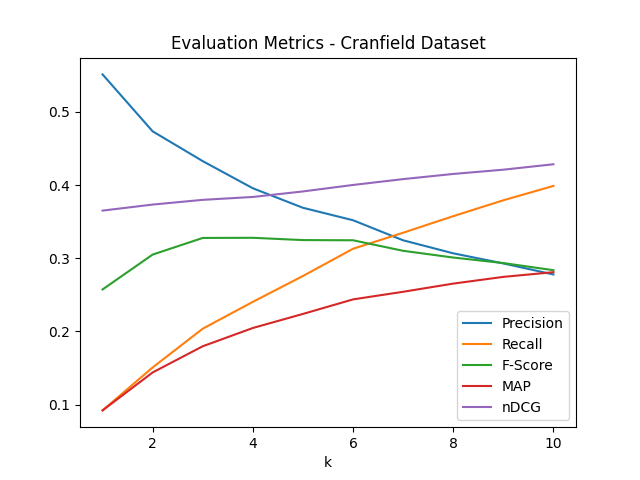
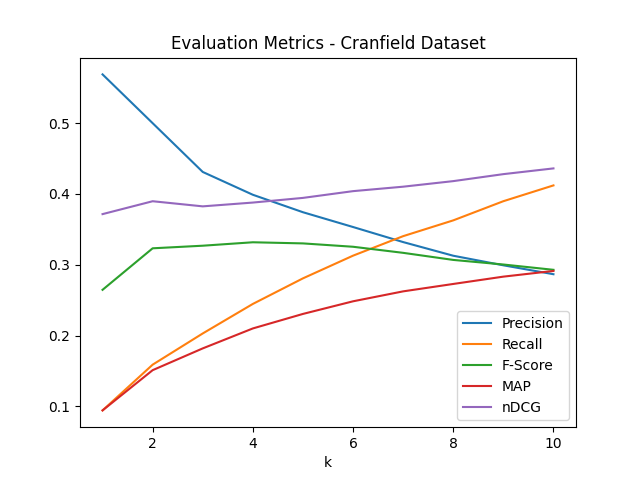
Check

diff --git a/Main_project_code/main.py b/Main_project_code/main.py
@@ -35,6 +35,8 @@ class SearchEngine:
 		self.informationRetriever = InformationRetrieval()
 		self.evaluator = Evaluation()
 		self.autocompleter = Trie()
+		self.start_time = None
+		self.end_time = None
 
 	def segmentSentences(self, text):
 		"""
@@ -149,7 +151,7 @@ class SearchEngine:
 		  for all queries in the Cranfield dataset
 		- produces graphs of the evaluation metrics in the output folder
 		"""
-		if self.args.model == "LSI":
+		if self.args.model == "LSI" or self.args.model == None:
 			self.args.out_folder += "final_model/"
 		else:
 			self.args.out_folder += "baseline/"
@@ -218,6 +220,11 @@ class SearchEngine:
     
 	def tuningLSI(self):
 		
+		if self.args.model == "LSI" :
+			self.args.out_folder += "final_model/"
+		else:
+			self.args.out_folder += "baseline/"
+
 		# Read queries
 		queries_json = json.load(open(args.dataset + "cran_queries.json", 'r'))[:]
 		query_ids, queries = [item["query number"] for item in queries_json], \
@@ -303,11 +310,13 @@ class SearchEngine:
 		print("Enter query below")
 		query = input()
 
+	
 		# If the user wants to use autocomplete, we will use the Trie data structure to get the query
 		if(self.args.autocomplete):
 			query = self.autocompleter.takeInput(query)
-
-        
+			
+		self.start_time = time.time()
+	
 		# Process documents
 		processedQuery = self.preprocessQueries([query])[0]
 
@@ -324,6 +333,8 @@ class SearchEngine:
 		model_args = self.args.model
 
 		doc_IDs_ordered = self.informationRetriever.rank([processedQuery], model_args)[0]
+
+		self.end_time = time.time()
 
 		# Print the IDs of first five documents
 		print("\nTop five document IDs : ")
@@ -357,6 +368,8 @@ if __name__ == "__main__":
                         help="Autocomplete")
 	parser.add_argument('-findK', default = "False",
 						help = "Find the best k for LSI")
+	parser.add_argument('-clustering', default = "False",
+						help = "Perform clustering")
 	
 	# Parse the input arguments
 	args = parser.parse_args()
@@ -366,11 +379,11 @@ if __name__ == "__main__":
 
 	# Either handle query from user or evaluate on the complete dataset 
 	if args.custom:
-		start_time = time.time()
+		# start_time = time.time()
 		searchEngine.handleCustomQuery()
-		end_time = time.time()
+		# end_time = time.time()
 		print("-------------------------------------------------------------------------------------------------------------")
-		print(f"Time taken by the IR system to output five relevant documents: " + str(end_time - start_time) + " seconds")
+		print(f"Time taken by the IR system to output five relevant documents: " + str(searchEngine.end_time - searchEngine.start_time) + " seconds")
 		print("-------------------------------------------------------------------------------------------------------------")
 	elif args.findK == "True" and args.model == "LSI":
 		searchEngine.tuningLSI()

diff --git a/Main_project_code/informationRetrieval.py b/Main_project_code/informationRetrieval.py
@@ -89,7 +89,7 @@ class InformationRetrieval():
         # Storing the qyery vectors with tfidf 
           
         print(f"Shape of query vectors: ",np.array(queryvectors).shape) 
-        return queryvectors       
+        return queryvectors    
 
     def LSI(self, k, docvectors, queryvectors): 
         """
@@ -116,21 +116,10 @@ class InformationRetrieval():
         VT_k = VT[:k, :] # Retain the first k rows of VT
         S_k = np.diag(S[:k]) # Create a diagonal matrix of the first k singular values
         
-        hidden_docs = []
-        hidden_queries = []
+        hidden_docs = (S_k @ VT_k).T
+        hidden_queries = np.array(queryvectors) @ U_k @ np.linalg.pinv(S_k) 
 
-        # Iterating through all queries
-        for query in queryvectors:
-            # Transformed the query into the latent space using the SVD components
-            hidden_query = np.dot(query, U_k)@np.linalg.pinv(S_k)
-            hidden_queries.append(hidden_query)
-        # Iterating through all documents
-        for id in range(len(docvectors)):
-            # Transformed the document into the latent space using the SVD components
-            hidden_doc = VT_k.T[id]   # Here, shape(VT_k) is (concepts, documents) here, transpose for accesing documents
-            hidden_docs.append(hidden_doc)
-
-        return np.array(hidden_docs), np.array(hidden_queries)
+        return hidden_docs, hidden_queries
     
     def rank(self, queries, method):
         """
@@ -151,7 +140,10 @@ class InformationRetrieval():
         # Accessing the document vectors
         docvectors = self.docvectors
         if method=='LSI':
-            docvectors, queryvectors=self.LSI(k=160, docvectors=docvectors, queryvectors=queryvectors)
+            docvectors, queryvectors=self.LSI(k= 160 , docvectors=docvectors, queryvectors=queryvectors)
+            # kmeans_model = MiniBatchKMeans(n_clusters=40, random_state=42)
+            # doc_labels = kmeans_model.fit_predict(docvectors)
+            # cluster_id = kmeans_model.predict(queryvectors.reshape(1, -1))[0]
             return self.orderDocs(docvectors, queryvectors)
         elif method == 'VSM':
             return self.orderDocs(docvectors, queryvectors)

diff --git a/Main_project_code/util.py b/Main_project_code/util.py
@@ -20,6 +20,7 @@ nltk.download('averaged_perceptron_tagger_eng')
 nltk.download('wordnet')
 nltk.download('stopwords')
 nltk.download('punkt')
+from sklearn.cluster import MiniBatchKMeans
 # Add any utility functions here
 
 delimiter = r'[.?!]'
